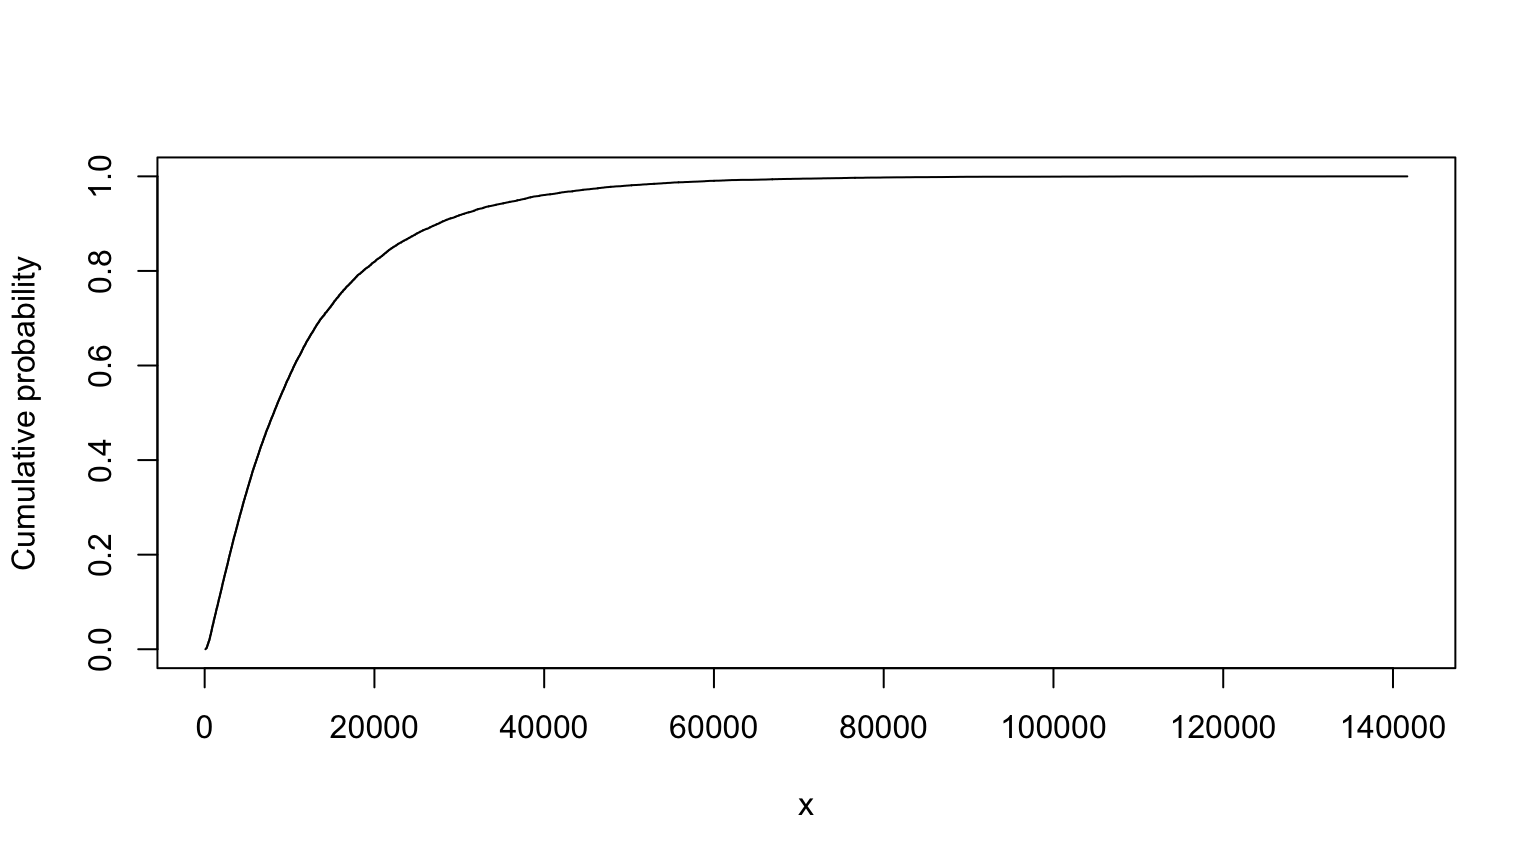
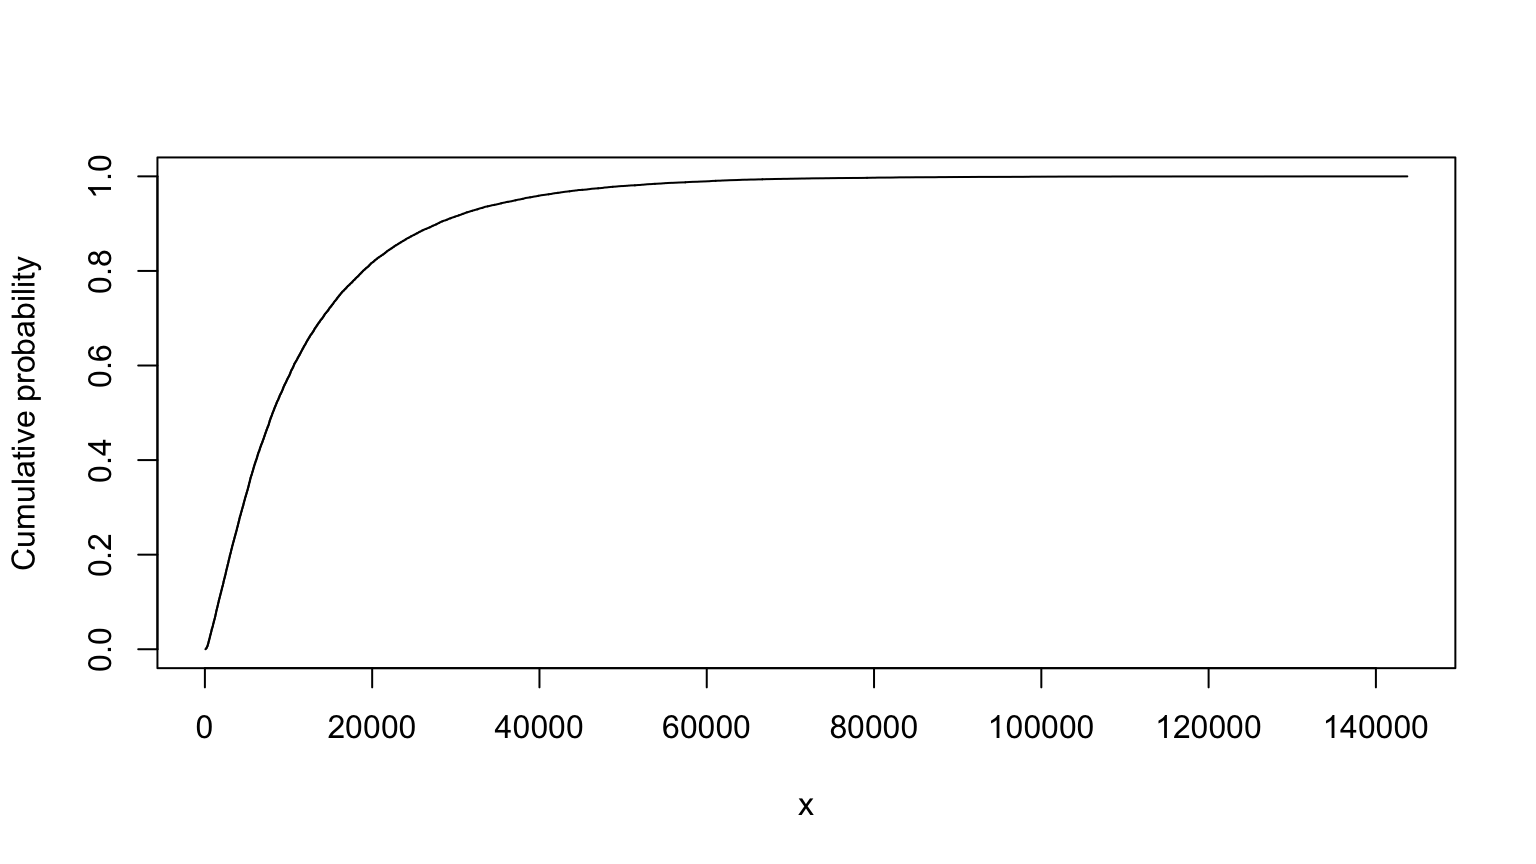
build_analysis_site() for release 1.0.14

diff --git a/docs/workshop.html b/docs/workshop.html
@@ -431,25 +431,25 @@ T &lt;- (n + BD * foc * Koc) * L / (K * i) # all variables assumed independent
 summary(T)</code></pre>
 <pre><code>## 
 ## Monte Carlo distribution summary
-##   Mean: 13112.43
-##   Variance: 252679674
-##   Std Deviation: 15895.9
-##   Width of interquartile range: 12861.49
-##   Width of overall range: 274096.1
+##   Mean: 12953.06
+##   Variance: 241341508
+##   Std Deviation: 15535.17
+##   Width of interquartile range: 12785.37
+##   Width of overall range: 268305.9
 ##   Order statistics
-##      Left (min) value: -3267.514
-##      1st percentile: 348.242
-##      5th percentile: 957.8447
-##      25th percentile: 3625.063
-##      Median (50th%ile): 8188.417
-##      75th percentile: 16486.55
-##      95th percentile: 42018.61
-##      99th percentile: 78137.98
-##      Right (max) value: 270828.6
+##      Left (min) value: -2387.993
+##      1st percentile: 333.0562
+##      5th percentile: 902.0783
+##      25th percentile: 3646.749
+##      Median (50th%ile): 8140.209
+##      75th percentile: 16432.12
+##      95th percentile: 40915.51
+##      99th percentile: 77800.78
+##      Right (max) value: 265917.9
 ##   Replications: 20000</code></pre>
 <pre class="r"><code>T</code></pre>
 <p><img src="workshop_files/figure-html/T-1.png" width="768" /></p>
-<pre><code>## MC (min=-3267.51362013029, median=8188.41730717038, mean=13112.4349444231, max=270828.5709331)</code></pre>
+<pre><code>## MC (min=-2387.99257882969, median=8140.20884202108, mean=12953.0570821773, max=265917.901679668)</code></pre>
 <pre class="r"><code># nolint end</code></pre>
 <p>Truncated version, from slide 40:</p>
 <pre class="r"><code># nolint start
@@ -469,25 +469,25 @@ T &lt;- (n + BD * foc * Koc) * L / (K * i)
 summary(T)</code></pre>
 <pre><code>## 
 ## Monte Carlo distribution summary
-##   Mean: 12043.65
-##   Variance: 154988871
-##   Std Deviation: 12449.45
-##   Width of interquartile range: 12255.27
-##   Width of overall range: 141585
+##   Mean: 12187.88
+##   Variance: 159981557
+##   Std Deviation: 12648.38
+##   Width of interquartile range: 12398.51
+##   Width of overall range: 143678.4
 ##   Order statistics
-##      Left (min) value: 99.89316
-##      1st percentile: 376.9823
-##      5th percentile: 947.9821
-##      25th percentile: 3675.731
-##      Median (50th%ile): 8159.117
-##      75th percentile: 15931.01
-##      95th percentile: 37096.73
-##      99th percentile: 59060.7
-##      Right (max) value: 141684.9
+##      Left (min) value: 74.52267
+##      1st percentile: 368.3541
+##      5th percentile: 961.8198
+##      25th percentile: 3774.037
+##      Median (50th%ile): 8115.774
+##      75th percentile: 16172.55
+##      95th percentile: 37276.9
+##      99th percentile: 60417.1
+##      Right (max) value: 143752.9
 ##   Replications: 20000</code></pre>
 <pre class="r"><code>T</code></pre>
 <p><img src="workshop_files/figure-html/T_truncated-1.png" width="768" /></p>
-<pre><code>## MC (min=99.8931624393197, median=8159.1170489704, mean=12043.6549724281, max=141684.879486093)</code></pre>
+<pre><code>## MC (min=74.5226725374095, median=8115.77447177819, mean=12187.8820346869, max=143752.945803262)</code></pre>
 <pre class="r"><code># nolint end</code></pre>
 <p>Maximum entropy version, from slide 70:</p>
 <p>T and Tind are pretty similar. In this case, the maximum entropy
@@ -506,25 +506,25 @@ Tind &lt;- (n + BD * foc * Koc) * L / (K * i)
 summary(Tind)</code></pre>
 <pre><code>## 
 ## Monte Carlo distribution summary
-##   Mean: 13862.88
-##   Variance: 225173755
-##   Std Deviation: 15005.79
-##   Width of interquartile range: 15033.27
-##   Width of overall range: 146106.8
+##   Mean: 14039.07
+##   Variance: 236030742
+##   Std Deviation: 15363.29
+##   Width of interquartile range: 15093.18
+##   Width of overall range: 184517.2
 ##   Order statistics
-##      Left (min) value: 49.28387
-##      1st percentile: 345.5026
-##      5th percentile: 959.5161
-##      25th percentile: 3649.119
-##      Median (50th%ile): 8643.267
-##      75th percentile: 18682.39
-##      95th percentile: 44682.57
-##      99th percentile: 69349.74
-##      Right (max) value: 146156.1
+##      Left (min) value: 75.03143
+##      1st percentile: 345.3916
+##      5th percentile: 1002.972
+##      25th percentile: 3712.131
+##      Median (50th%ile): 8543.394
+##      75th percentile: 18805.31
+##      95th percentile: 45693.84
+##      99th percentile: 71632.45
+##      Right (max) value: 184592.2
 ##   Replications: 20000</code></pre>
 <pre class="r"><code>Tind</code></pre>
 <p><img src="workshop_files/figure-html/Tind-1.png" width="768" /></p>
-<pre><code>## MC (min=49.2838686977666, median=8643.26650026148, mean=13862.8830299982, max=146156.091066572)</code></pre>
+<pre><code>## MC (min=75.0314295344073, median=8543.39399320294, mean=14039.0738022595, max=184592.23383914)</code></pre>
 <pre class="r"><code># nolint end</code></pre>
 </div>
 <div id="probability-bounds-analysis" class="section level1">

diff --git a/docs/news/index.html b/docs/news/index.html
@@ -17,7 +17,7 @@
       </button>
       <span class="navbar-brand">
         <a class="navbar-link" href="../index.html">workshop7</a>
-        <span class="version label label-default" data-toggle="tooltip" data-placement="bottom" title="">1.0.13</span>
+        <span class="version label label-default" data-toggle="tooltip" data-placement="bottom" title="">1.0.14</span>
       </span>
     </div>
 
@@ -60,6 +60,10 @@
       <small>Source: <a href="https://github.com/jabenninghoff/workshop7/blob/HEAD/NEWS.md" class="external-link"><code>NEWS.md</code></a></small>
     </div>
 
+    <div class="section level2">
+<h2 class="page-header" data-toc-text="1.0.14" id="workshop7-1014">workshop7 1.0.14<a class="anchor" aria-label="anchor" href="#workshop7-1014"></a></h2>
+<ul><li>Maintenance updates</li>
+</ul></div>
     <div class="section level2">
 <h2 class="page-header" data-toc-text="1.0.13" id="workshop7-1013">workshop7 1.0.13<a class="anchor" aria-label="anchor" href="#workshop7-1013"></a></h2>
 <ul><li>Maintenance updates</li>

diff --git a/docs/404.html b/docs/404.html
@@ -32,7 +32,7 @@
       </button>
       <span class="navbar-brand">
         <a class="navbar-link" href="https://jabenninghoff.github.io/workshop7/index.html">workshop7</a>
-        <span class="version label label-default" data-toggle="tooltip" data-placement="bottom" title="">1.0.13</span>
+        <span class="version label label-default" data-toggle="tooltip" data-placement="bottom" title="">1.0.14</span>
       </span>
     </div>
 

diff --git a/docs/reference/index.html b/docs/reference/index.html
@@ -17,7 +17,7 @@
       </button>
       <span class="navbar-brand">
         <a class="navbar-link" href="../index.html">workshop7</a>
-        <span class="version label label-default" data-toggle="tooltip" data-placement="bottom" title="">1.0.13</span>
+        <span class="version label label-default" data-toggle="tooltip" data-placement="bottom" title="">1.0.14</span>
       </span>
     </div>
 

diff --git a/docs/reference/workshop7-package.html b/docs/reference/workshop7-package.html
@@ -17,7 +17,7 @@
       </button>
       <span class="navbar-brand">
         <a class="navbar-link" href="../index.html">workshop7</a>
-        <span class="version label label-default" data-toggle="tooltip" data-placement="bottom" title="">1.0.13</span>
+        <span class="version label label-default" data-toggle="tooltip" data-placement="bottom" title="">1.0.14</span>
       </span>
     </div>
 

diff --git a/docs/LICENSE-text.html b/docs/LICENSE-text.html
@@ -17,7 +17,7 @@
       </button>
       <span class="navbar-brand">
         <a class="navbar-link" href="index.html">workshop7</a>
-        <span class="version label label-default" data-toggle="tooltip" data-placement="bottom" title="">1.0.13</span>
+        <span class="version label label-default" data-toggle="tooltip" data-placement="bottom" title="">1.0.14</span>
       </span>
     </div>
 

diff --git a/docs/LICENSE.html b/docs/LICENSE.html
@@ -17,7 +17,7 @@
       </button>
       <span class="navbar-brand">
         <a class="navbar-link" href="index.html">workshop7</a>
-        <span class="version label label-default" data-toggle="tooltip" data-placement="bottom" title="">1.0.13</span>
+        <span class="version label label-default" data-toggle="tooltip" data-placement="bottom" title="">1.0.14</span>
       </span>
     </div>
 

diff --git a/docs/TODO.html b/docs/TODO.html
@@ -17,7 +17,7 @@
       </button>
       <span class="navbar-brand">
         <a class="navbar-link" href="index.html">workshop7</a>
-        <span class="version label label-default" data-toggle="tooltip" data-placement="bottom" title="">1.0.13</span>
+        <span class="version label label-default" data-toggle="tooltip" data-placement="bottom" title="">1.0.14</span>
       </span>
     </div>
 

diff --git a/docs/authors.html b/docs/authors.html
@@ -17,7 +17,7 @@
       </button>
       <span class="navbar-brand">
         <a class="navbar-link" href="index.html">workshop7</a>
-        <span class="version label label-default" data-toggle="tooltip" data-placement="bottom" title="">1.0.13</span>
+        <span class="version label label-default" data-toggle="tooltip" data-placement="bottom" title="">1.0.14</span>
       </span>
     </div>
 

diff --git a/docs/index.html b/docs/index.html
@@ -34,7 +34,7 @@
       </button>
       <span class="navbar-brand">
         <a class="navbar-link" href="index.html">workshop7</a>
-        <span class="version label label-default" data-toggle="tooltip" data-placement="bottom" title="">1.0.13</span>
+        <span class="version label label-default" data-toggle="tooltip" data-placement="bottom" title="">1.0.14</span>
       </span>
     </div>
 
